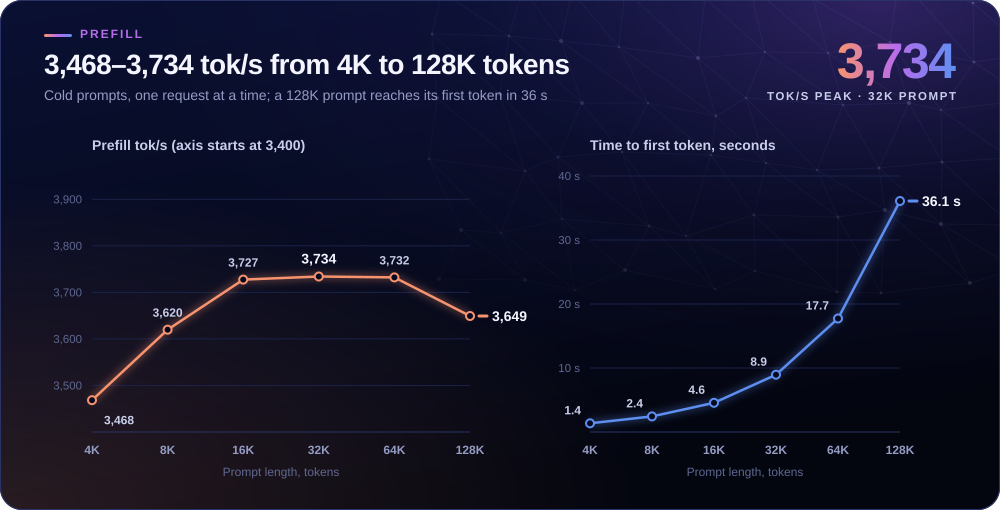
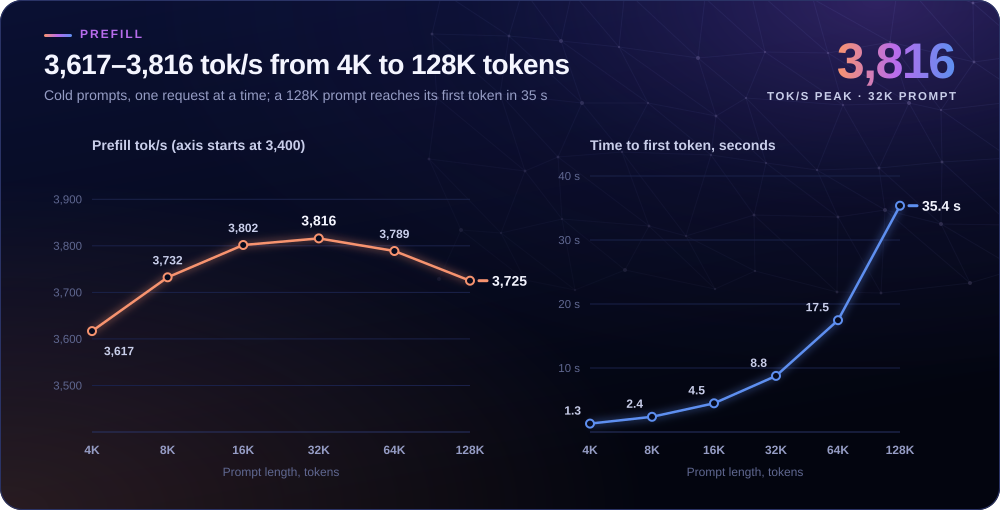
docs: show the stock-clock prefill peak in release cards
- Move every prefill figure to the 30a9647 stock GPU run, peak 3,816
  tok/s at 32K, because that is the headline for this release
- Keep decode and quality on the 2,350 MHz run; the stock run started
  on a nearly full KV pool, which lowers its decode
- State the clocks of each measurement on both cards and split the
  prefill and quality source hashes in the summary

Tested: 15 focused chart and audit tests

diff --git a/README.md b/README.md
@@ -1,15 +1,15 @@
-# DeepSeek V4.1 Flash, uncensored, on 3× DGX Spark: 3,734 tok/s prefill, 124 tok/s code
+# DeepSeek V4.1 Flash, uncensored, on 3× DGX Spark: 3,816 tok/s prefill, 124 tok/s code
 
 **Uncensored DeepSeek V4.1 Flash on three DGX Sparks, with the full engine, API and benchmarks: reads prompts at up to
-3,734 tok/s, writes code at 124 tok/s, serves 270 tok/s across 16 requests, and refused 0 of 100 harmful prompts.**
+3,816 tok/s, writes code at 124 tok/s, serves 270 tok/s across 16 requests, and refused 0 of 100 harmful prompts.**
 
 <p align="center">
-  <img src="docs/assets/scorecard.svg" width="100%" alt="DeepSeek V4.1 Flash abliterated on 3x DGX Spark, TP3, 3.84 bpw EXL3, with a glowing mesh whale. Headline: 3,734 tok/s prefill. Line charts and tables of combined decode tok/s at C1, C2, C4, C8, C12 and C16. Thinking off, greedy, temperature 0: code 124.4, 167.2, 191.9, 220.0, 245.2, 253.4; prose 82.0, 111.2, 161.4, 219.2, 251.7, 270.3. Thinking on, non-greedy, temperature 0.7: code 82.0, 119.3, 141.9, 175.1, 196.3, 211.3; prose 68.1, 94.6, 130.9, 173.3, 196.5, 215.4." />
+  <img src="docs/assets/scorecard.svg" width="100%" alt="DeepSeek V4.1 Flash abliterated on 3x DGX Spark, TP3, 3.84 bpw EXL3, with a glowing mesh whale. Headline: 3,816 tok/s prefill. Line charts and tables of combined decode tok/s at C1, C2, C4, C8, C12 and C16. Thinking off, greedy, temperature 0: code 124.4, 167.2, 191.9, 220.0, 245.2, 253.4; prose 82.0, 111.2, 161.4, 219.2, 251.7, 270.3. Thinking on, non-greedy, temperature 0.7: code 82.0, 119.3, 141.9, 175.1, 196.3, 211.3; prose 68.1, 94.6, 130.9, 173.3, 196.5, 215.4." />
 </p>
 
 ## Why you should care
 
-- **Fast on three small desktop machines.** It reads a 128K-token prompt in 36 seconds and holds 3,620–3,734 tok/s
+- **Fast on three small desktop machines.** It reads a 128K-token prompt in 35 seconds and holds 3,725–3,816 tok/s
   from 8K to 128K. One user gets 124 tok/s on code, and 16 requests at once share up to 270 tok/s.
 - **Uncensored, with the quality kept.** It refused 0 of 100 HarmBench prompts, yet scores 97.5% on AIME 2025 and 90.5%
   on GPQA-Diamond. It is also the closest to the official model of the 8 packs we scored, closer even than the unedited
@@ -24,14 +24,14 @@
 
 | | v1.2, measured 5 November 2026 |
 | --- | --- |
-| Prefill | **3,468 / 3,620 / 3,727 / 3,734 / 3,732 / 3,649** tok/s at 4K / 8K / 16K / 32K / 64K / 128K; cold prompts, one request |
-| Time to first token | 1.35 / 2.44 / 4.57 / 8.95 / 17.73 / 36.09 s at 4K / 8K / 16K / 32K / 64K / 128K |
+| Prefill | **3,617 / 3,732 / 3,802 / 3,816 / 3,789 / 3,725** tok/s at 4K / 8K / 16K / 32K / 64K / 128K; cold prompts, one request |
+| Time to first token | 1.31 / 2.37 / 4.49 / 8.76 / 17.47 / 35.36 s at 4K / 8K / 16K / 32K / 64K / 128K |
 | Decode, thinking off | Code **124.4 / 167.2 / 191.9 / 220.0 / 245.2 / 253.4** tok/s; prose **82.0 / 111.2 / 161.4 / 219.2 / 251.7 / 270.3** tok/s at C1 / C2 / C4 / C8 / C12 / C16, combined |
 | Decode, thinking on | Code **82.0 / 119.3 / 141.9 / 175.1 / 196.3 / 211.3** tok/s; prose **68.1 / 94.6 / 130.9 / 173.3 / 196.5 / 215.4** tok/s at C1 / C2 / C4 / C8 / C12 / C16, combined |
 | Fidelity | Mean KL **0.0784** and 92.0% top-1 agreement with official DeepSeek-V4.1-Flash-1017 logits |
 | Quality | **97.1%** on the 755-item standard set; **97.5%** AIME 2025; **90.5%** GPQA-Diamond (1,434 of 1,584); 88.7% IFEval; 88.0% LiveCodeBench v6; 88.0% MMLU-Pro (500-item subset) |
 | Refusals | 0 of 100 HarmBench prompts refused (98 answered, 2 partial); 0 of 250 XSTest safe prompts fully refused |
-| Capacity | 1,048,576-token context configured (largest measured prompt 131,094); 8M-token KV pool, 16 streams, 256 GiB NVMe spill |
+| Capacity | 1,048,576-token context configured (largest measured prompt 131,088); 8M-token KV pool, 16 streams, 256 GiB NVMe spill |
 | Model | MoE, 384 routed experts, top-6, 1 shared, 40 layers, MLA, DSpark MTP drafter, Engram; `1bae0e1` |
 | Weights | 3.84 bpw EXL3 composition plus [mrfakename](https://huggingface.co/mrfakename/DeepSeek-V4.1-Flash-1017-abliterated)'s rank-2 refusal-removal edit, re-encoded at 6 bits |
 | Engine | TensorFold `dsv41`, production engine `30a9647` for these numbers, with the LakyFx 1.2.8 prefill port and our TP3 work |
@@ -62,23 +62,23 @@ the fixes and build verification.
 
 ## Prefill
 
-Prefill holds 3,620–3,734 tok/s from 8K through 128K tokens, with every prompt row split across the three GB10s.
+Prefill holds 3,725–3,816 tok/s from 8K through 128K tokens, with every prompt row split across the three GB10s.
 
-<p align="center"><img src="docs/assets/chart-prefill.svg" width="100%" alt="Two line charts against prompt length from 4K to 128K tokens. Prefill tok/s: 3,468, 3,620, 3,727, 3,734, 3,732 and 3,649. Time to first token: 1.35, 2.44, 4.57, 8.95, 17.73 and 36.09 seconds" /></p>
+<p align="center"><img src="docs/assets/chart-prefill.svg" width="100%" alt="Two line charts against prompt length from 4K to 128K tokens. Prefill tok/s: 3,617, 3,732, 3,802, 3,816, 3,789 and 3,725. Time to first token: 1.31, 2.37, 4.49, 8.76, 17.47 and 35.36 seconds" /></p>
 
 | Context | Prompt tokens | Time to first token | Prefill tok/s | Per Spark |
 | ---: | ---: | ---: | ---: | ---: |
-| 4K | 4,114 | 1.35 s | **3,468** | 1,156 |
-| 8K | 8,213 | 2.44 s | **3,620** | 1,207 |
-| 16K | 16,406 | 4.57 s | **3,727** | 1,242 |
-| 32K | 32,792 | 8.95 s | **3,734** | 1,245 |
-| 64K | 65,554 | 17.73 s | **3,732** | 1,244 |
-| 128K | 131,094 | 36.09 s | **3,649** | 1,216 |
+| 4K | 4,116 | 1.31 s | **3,617** | 1,206 |
+| 8K | 8,214 | 2.37 s | **3,732** | 1,244 |
+| 16K | 16,403 | 4.49 s | **3,802** | 1,267 |
+| 32K | 32,786 | 8.76 s | **3,816** | 1,272 |
+| 64K | 65,555 | 17.47 s | **3,789** | 1,263 |
+| 128K | 131,088 | 35.36 s | **3,725** | 1,242 |
 
 Measured 5 November 2026 on engine `30a9647` with [sparkDash](https://github.com/MiaAI-Lab/sparkDash): cold prompts,
 zero cached tokens, one request at a time, three samples through 32K and two at 64K and 128K. tok/s comes from time to
-first token with the collector's 167.76 ms request overhead subtracted. All CPU cores, performance cores capped at
-3,600 MHz and GPUs capped at 2,350 MHz. [Every measured point](benchmarks/v1.2/summary.json).
+first token with the collector's 171.55 ms request overhead subtracted. All CPU cores, performance cores capped at
+3,600 MHz and stock GPU clocks. [Every measured point](benchmarks/v1.2/summary.json).
 
 ### How prefill got here
 
@@ -146,7 +146,7 @@ Data: [development.csv](benchmarks/dev/development.csv).
 <p align="center"><img src="docs/assets/chart-decode.svg" width="100%" alt="Two line charts of combined decode tok/s against requests at once. Greedy, prose and code: C1 82 and 124, C2 111 and 167, C4 161 and 192, C8 219 and 220, C12 252 and 245, C16 270 and 253. Thinking, prose and code: C1 68 and 82, C2 95 and 119, C4 131 and 142, C8 173 and 175, C12 196 and 196, C16 215 and 211" /></p>
 
 Measured 5 November 2026 on engine `30a9647` with a near-empty KV pool: 400 output tokens per request, one run per point,
-timed at the engine on short cached prompts. Greedy is temperature 0 with thinking off; thinking is temperature 0.7 with
+timed at the engine on short cached prompts, GPUs capped at 2,350 MHz. Greedy is temperature 0 with thinking off; thinking is temperature 0.7 with
 thinking on. All 354 decode streams completed with no failures.
 
 <details>

diff --git a/docs/huggingface-card.md b/docs/huggingface-card.md
@@ -18,18 +18,18 @@ tags:
 - tensor-parallelism
 ---
 
-# DeepSeek V4.1 Flash on 3× DGX Spark: 3,734 tok/s prefill, 124 tok/s code
+# DeepSeek V4.1 Flash on 3× DGX Spark: 3,816 tok/s prefill, 124 tok/s code
 
-**Abliterated 3.84 bpw EXL3 weights on three small desktop machines: up to 3,734 tok/s reading prompts,
+**Abliterated 3.84 bpw EXL3 weights on three small desktop machines: up to 3,816 tok/s reading prompts,
 124 tok/s writing code and 270 tok/s shared across 16 requests.**
 
 <p align="center">
-  <img src="assets/scorecard.png" width="100%" alt="DeepSeek V4.1 Flash abliterated on 3x DGX Spark, TP3, 3.84 bpw EXL3. Headline: 3,734 tok/s prefill. Combined decode tok/s at C1, C2, C4, C8, C12 and C16. Thinking off code: 124.4, 167.2, 191.9, 220.0, 245.2, 253.4; prose: 82.0, 111.2, 161.4, 219.2, 251.7, 270.3. Thinking on code: 82.0, 119.3, 141.9, 175.1, 196.3, 211.3; prose: 68.1, 94.6, 130.9, 173.3, 196.5, 215.4." />
+  <img src="assets/scorecard.png" width="100%" alt="DeepSeek V4.1 Flash abliterated on 3x DGX Spark, TP3, 3.84 bpw EXL3. Headline: 3,816 tok/s prefill. Combined decode tok/s at C1, C2, C4, C8, C12 and C16. Thinking off code: 124.4, 167.2, 191.9, 220.0, 245.2, 253.4; prose: 82.0, 111.2, 161.4, 219.2, 251.7, 270.3. Thinking on code: 82.0, 119.3, 141.9, 175.1, 196.3, 211.3; prose: 68.1, 94.6, 130.9, 173.3, 196.5, 215.4." />
 </p>
 
 ## Why you should care
 
-- **Fast, on three DGX Sparks.** A 128K-token prompt reaches its first token in 36 seconds. One request gets 124 tok/s
+- **Fast, on three DGX Sparks.** A 128K-token prompt reaches its first token in 35 seconds. One request gets 124 tok/s
   on code; 16 requests together reach 270 tok/s on prose.
 - **Uncensored without losing quality.** These weights refused 0 of 100 HarmBench prompts, score 97.5% on AIME 2025
   and 90.5% on GPQA-Diamond, and have the lowest KL to the official model of the eight packs we scored.
@@ -42,14 +42,14 @@ tags:
 
 | | v1.2, measured 5 November 2026 |
 | --- | --- |
-| Prefill | **3,468 / 3,620 / 3,727 / 3,734 / 3,732 / 3,649** tok/s at 4K / 8K / 16K / 32K / 64K / 128K; cold prompts |
-| Time to first token | 1.35 / 2.44 / 4.57 / 8.95 / 17.73 / 36.09 s at 4K / 8K / 16K / 32K / 64K / 128K |
+| Prefill | **3,617 / 3,732 / 3,802 / 3,816 / 3,789 / 3,725** tok/s at 4K / 8K / 16K / 32K / 64K / 128K; cold prompts |
+| Time to first token | 1.31 / 2.37 / 4.49 / 8.76 / 17.47 / 35.36 s at 4K / 8K / 16K / 32K / 64K / 128K |
 | Decode, thinking off | Code **124.4 / 167.2 / 191.9 / 220.0 / 245.2 / 253.4** tok/s; prose **82.0 / 111.2 / 161.4 / 219.2 / 251.7 / 270.3** tok/s at C1 / C2 / C4 / C8 / C12 / C16, combined |
 | Decode, thinking on | Code **82.0 / 119.3 / 141.9 / 175.1 / 196.3 / 211.3** tok/s; prose **68.1 / 94.6 / 130.9 / 173.3 / 196.5 / 215.4** tok/s at C1 / C2 / C4 / C8 / C12 / C16, combined |
 | Fidelity | Mean KL **0.0784** and 92.0% top-1 agreement with official DeepSeek-V4.1-Flash-1017 logits |
 | Quality | **97.1%** on the 755-item standard set; **97.5%** AIME 2025; **90.5%** GPQA-Diamond (1,434 of 1,584); 88.7% IFEval; 88.0% LiveCodeBench v6; 88.0% MMLU-Pro (500-item subset) |
 | Refusals | 0 of 100 HarmBench prompts refused (98 answered, 2 partial); 0 of 250 XSTest safe prompts fully refused |
-| Context | 1,048,576 tokens configured; largest measured prompt 131,094 tokens |
+| Context | 1,048,576 tokens configured; largest measured prompt 131,088 tokens |
 | Quantization | EXL3, 3.8361 bpw over quantized linear layers (output head excluded, 6-bit) |
 | Edit | [mrfakename](https://huggingface.co/mrfakename/DeepSeek-V4.1-Flash-1017-abliterated)'s rank-2 refusal-removal edit, applied in FP32 and re-encoded at 6 bits |
 | Size | About 274 GB: 35 safetensors shards |
@@ -62,21 +62,21 @@ prompt, and a returning chat keeps its saved state while it waits in line, so it
 ## Speed
 
 Measured 5 November 2026 on production engine `30a9647` with [sparkDash](https://github.com/MiaAI-Lab/sparkDash).
-All CPU cores, GPUs capped at 2,350 MHz and performance cores capped at 3,600 MHz.
+All CPU cores and performance cores capped at 3,600 MHz. Prefill used stock GPU clocks; decode capped GPUs at 2,350 MHz.
 
-<p align="center"><img src="assets/chart-prefill.png" width="100%" alt="Two line charts against prompt length from 4K to 128K tokens. Prefill tok/s: 3,468, 3,620, 3,727, 3,734, 3,732 and 3,649. Time to first token: 1.35, 2.44, 4.57, 8.95, 17.73 and 36.09 seconds" /></p>
+<p align="center"><img src="assets/chart-prefill.png" width="100%" alt="Two line charts against prompt length from 4K to 128K tokens. Prefill tok/s: 3,617, 3,732, 3,802, 3,816, 3,789 and 3,725. Time to first token: 1.31, 2.37, 4.49, 8.76, 17.47 and 35.36 seconds" /></p>
 
 | Context | Prompt tokens | Time to first token | Prefill tok/s |
 | ---: | ---: | ---: | ---: |
-| 4K | 4,114 | 1.35 s | 3,468 |
-| 8K | 8,213 | 2.44 s | 3,620 |
-| 16K | 16,406 | 4.57 s | 3,727 |
-| 32K | 32,792 | 8.95 s | **3,734** |
-| 64K | 65,554 | 17.73 s | 3,732 |
-| 128K | 131,094 | 36.09 s | 3,649 |
+| 4K | 4,116 | 1.31 s | 3,617 |
+| 8K | 8,214 | 2.37 s | 3,732 |
+| 16K | 16,403 | 4.49 s | 3,802 |
+| 32K | 32,786 | 8.76 s | **3,816** |
+| 64K | 65,555 | 17.47 s | 3,789 |
+| 128K | 131,088 | 35.36 s | 3,725 |
 
 Cold prompts, zero cached tokens, one request at a time; tok/s comes from time to first token with the collector's
-167.76 ms request overhead subtracted.
+171.55 ms request overhead subtracted.
 
 <p align="center"><img src="assets/chart-decode.png" width="100%" alt="Two line charts of combined decode tok/s against requests at once. Greedy, prose and code: C1 82 and 124, C2 111 and 167, C4 161 and 192, C8 219 and 220, C12 252 and 245, C16 270 and 253. Thinking, prose and code: C1 68 and 82, C2 95 and 119, C4 131 and 142, C8 173 and 175, C12 196 and 196, C16 215 and 211" /></p>
 

diff --git a/benchmarks/README.md b/benchmarks/README.md
@@ -6,8 +6,8 @@ Results are grouped by runtime and date. Compare runs with matched settings.
 
 The [v1.2 numeric summary](v1.2/summary.json) records cold prefill, the 755-item standard quality set and a
 near-empty-pool decode, all measured 5 November 2026 on the production engine `30a9647` on three DGX Spark GB10
-systems in TP3, an 8M-token KV pool, 16 streams, all CPU cores, GPUs capped at 2,350 MHz and performance cores capped
-at 3,600 MHz. The summary retains the source hashes and all per-stream timings.
+systems in TP3, an 8M-token KV pool, 16 streams, all CPU cores and performance cores capped at 3,600 MHz. Prefill used
+stock GPU clocks; decode and the quality set capped GPUs at 2,350 MHz. The summary retains the source hashes and all per-stream timings.
 
 ### Decode
 
@@ -29,17 +29,17 @@ prompts and zero failed streams across all 48 points. Greedy has thinking off an
 
 ### Prefill and standard quality set
 
-Cold prompts, zero cached tokens, one request at a time. The collector subtracts 167.76 ms of request overhead from
+Cold prompts, zero cached tokens, one request at a time. The collector subtracts 171.55 ms of request overhead from
 TTFT-derived prefill throughput. Three samples through 32K, two at 64K and 128K.
 
 | Target | Prompt tokens | Samples | Prefill tok/s | TTFT (s) |
 |---|---:|---:|---:|---:|
-| 4K | 4,114 | 3 | 3468.36 | 1.354 |
-| 8K | 8,213 | 3 | 3619.69 | 2.437 |
-| 16K | 16,406 | 3 | 3727.40 | 4.569 |
-| 32K | 32,792 | 3 | 3734.15 | 8.949 |
-| 64K | 65,554 | 2 | 3732.20 | 17.732 |
-| 128K | 131,094 | 2 | 3649.26 | 36.091 |
+| 4K | 4,116 | 3 | 3616.68 | 1.310 |
+| 8K | 8,214 | 3 | 3732.41 | 2.372 |
+| 16K | 16,403 | 3 | 3801.73 | 4.486 |
+| 32K | 32,786 | 3 | 3815.85 | 8.764 |
+| 64K | 65,555 | 2 | 3788.88 | 17.474 |
+| 128K | 131,088 | 2 | 3725.14 | 35.362 |
 
 The standard 755-item set scored **97.1%** (720 passed): arithmetic, reasoning and tracking each 100%, GSM8K 96.5%,
 MMLU 94.4% and QA 92.0%. The AIME 2025, GPQA-Diamond, IFEval, LiveCodeBench and MMLU-Pro results below are separate

diff --git a/docs/model-card.md b/docs/model-card.md
@@ -44,7 +44,7 @@ Refusals, greedy:
 - XSTest safe, chat: 49 answered, 1 partial, 0 refused of 50.
 
 The same weights score 97.5% on AIME 2025 (117 of 120, 4 repeats, thinking on), 90.5% on GPQA-Diamond (1,434 of 1,584, 8 repeats, thinking on), 88.7% on IFEval (prompt-level strict), 88.0% on LiveCodeBench v6 and 88.0% on a 500-item MMLU-Pro subset ([quality.csv](../benchmarks/v1.1/quality.csv)). The configured context is 1,048,576 tokens; the
-largest measured prompt is 131,094 tokens. Tested scope is text on exactly three nodes.
+largest measured prompt is 131,088 tokens. Tested scope is text on exactly three nodes.
 
 ## Licenses
 

diff --git a/CHANGELOG.md b/CHANGELOG.md
@@ -10,7 +10,7 @@ Production moved from `678ea1b` to `30a9647` with the owner's approval. The weig
 
 - Long chat histories use far less memory when building a prompt.
 - A returning chat keeps its saved state while it waits in line, so it no longer recomputes from zero.
-- Production suite on `30a9647`: 48 decode points, six cold-prefill points and 97.1% (720 of 755) on the standard quality set; peak prefill 3,734 tok/s at 32K.
+- Production suite on `30a9647`: 48 decode points, six cold-prefill points and 97.1% (720 of 755) on the standard quality set; peak prefill 3,816 tok/s at 32K on stock GPU clocks.
 
 ## 2026-11-04 v1.2
 
